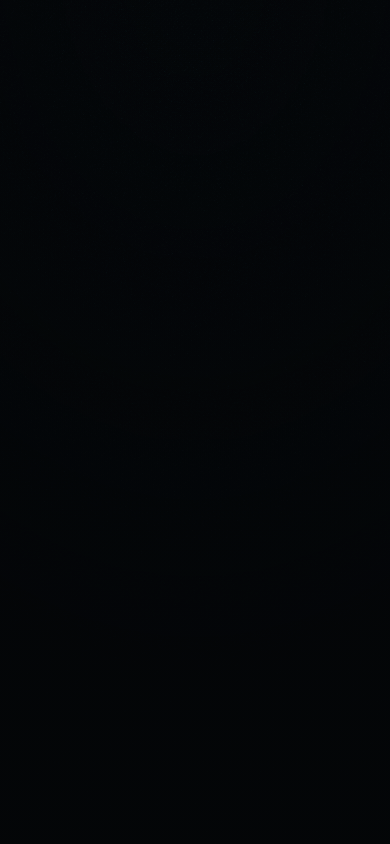
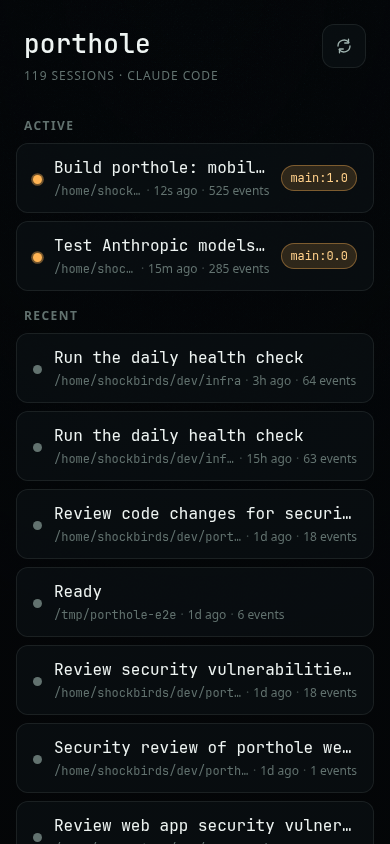
fix: cap list stagger delay and replace black readme screenshot
unbounded i * 45ms delay left the tail of 100+ sessions invisible for
seconds; the readme list screenshot had captured mid-entrance as near-black

diff --git a/web/src/components/SessionList.vue b/web/src/components/SessionList.vue
@@ -10,6 +10,12 @@ const activeSessions = computed(() => sessions.value.filter((s) => s.active))
 const recentSessions = computed(() =>
   [...sessions.value].filter((s) => !s.active).sort((a, b) => b.lastModified - a.lastModified),
 )
+
+// stagger only the first screenful — with 100+ sessions an unbounded
+// i * 45 delay leaves the tail invisible for seconds
+const STAGGER_MS = 45
+const STAGGER_CAP = 12
+const enterDelay = (i: number) => Math.min(i, STAGGER_CAP) * STAGGER_MS
 </script>
 
 <template>
@@ -53,7 +59,7 @@ const recentSessions = computed(() =>
               :key="s.id"
               v-motion
               :initial="{ opacity: 0, y: 14 }"
-              :enter="{ opacity: 1, y: 0, transition: { duration: 320, delay: i * 45 } }"
+              :enter="{ opacity: 1, y: 0, transition: { duration: 320, delay: enterDelay(i) } }"
               class="sl-row"
               type="button"
               @click="goToSession(s.id)"
@@ -82,7 +88,7 @@ const recentSessions = computed(() =>
               :key="s.id"
               v-motion
               :initial="{ opacity: 0, y: 14 }"
-              :enter="{ opacity: 1, y: 0, transition: { duration: 320, delay: (activeSessions.length + i) * 45 } }"
+              :enter="{ opacity: 1, y: 0, transition: { duration: 320, delay: enterDelay(activeSessions.length + i) } }"
               class="sl-row"
               type="button"
               @click="goToSession(s.id)"